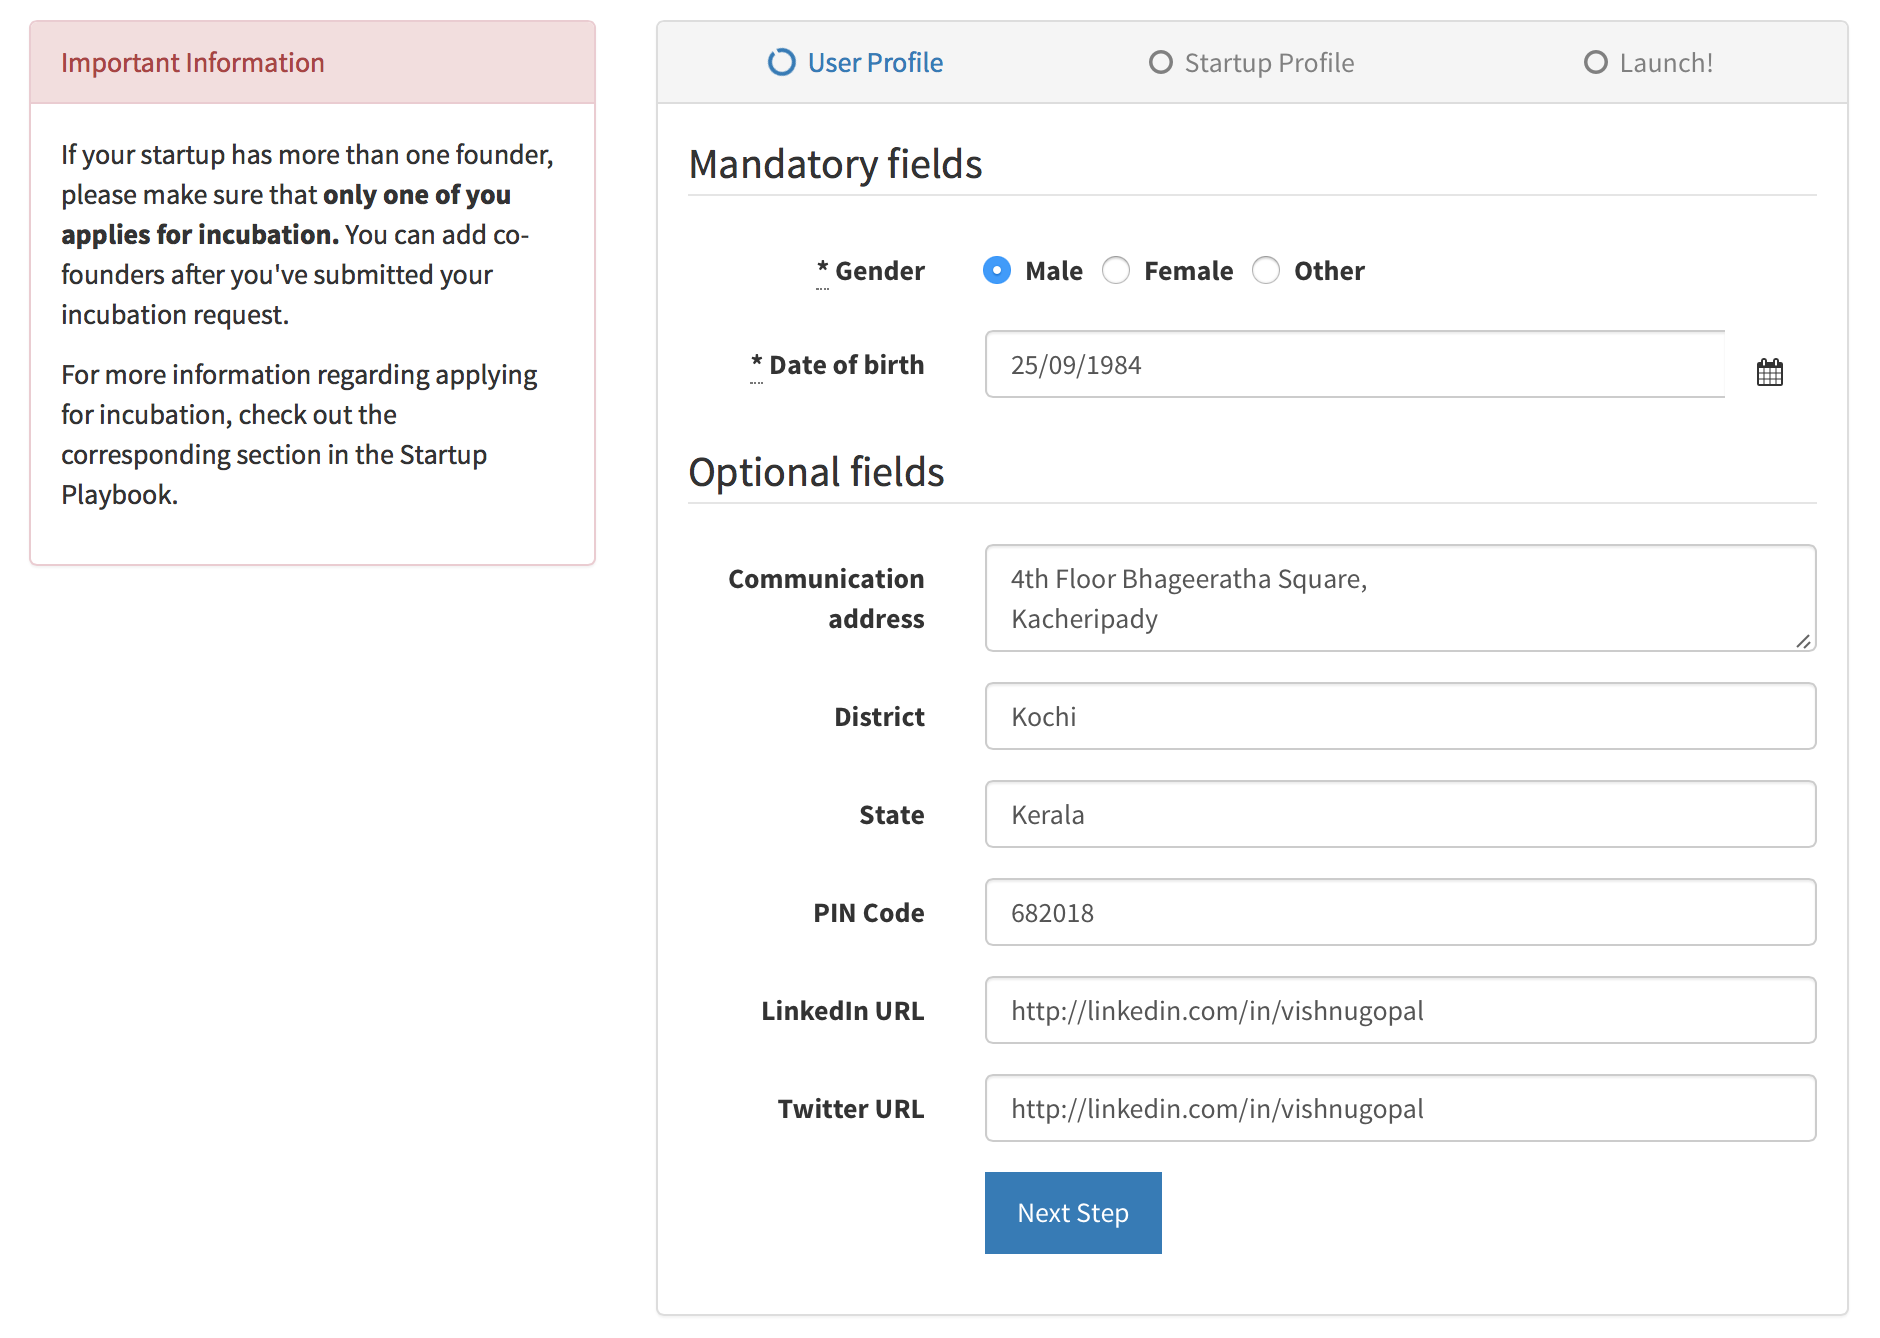
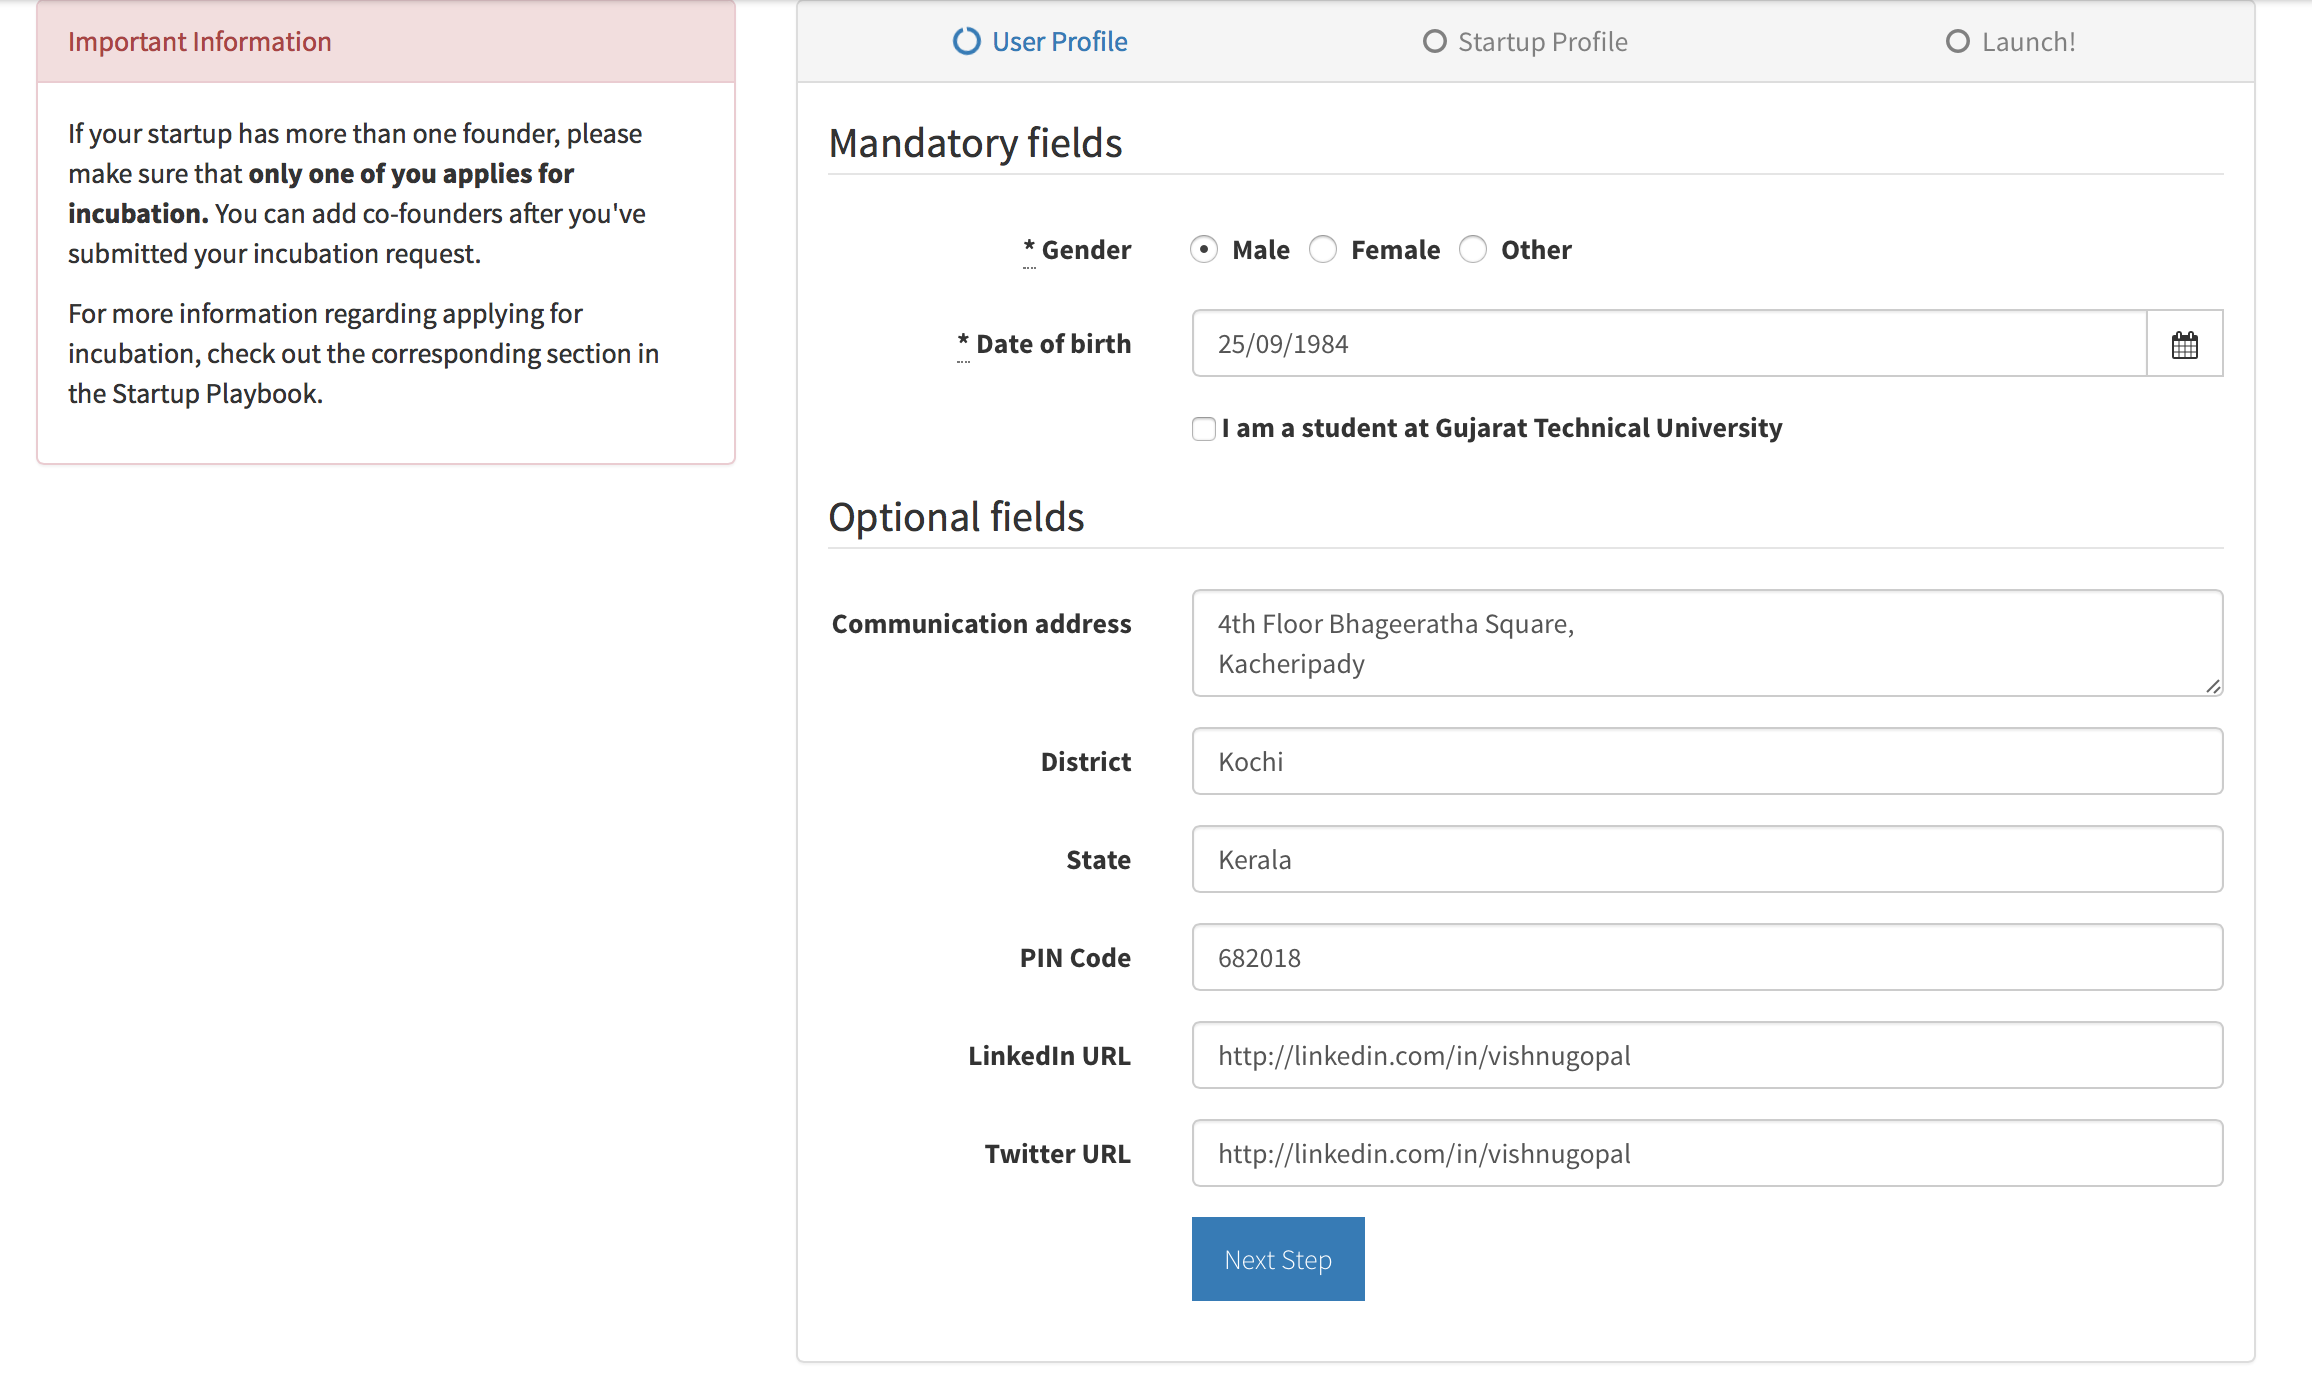
Explicitly mentioning that students of GTU will have to add their roll number.

diff --git a/1.1-application.md b/1.1-application.md
@@ -22,7 +22,10 @@ All founders of a startup need to have separate SV.CO IDs to apply. But when you
 During the process, you submit your idea, add your team members, and submit your initial idea slides[^2]. Once your slides are evaluated and accepted, you are in!
 
 In the first section, you fill in your basic information. It's best to fill in as much of the optional fields as you can.
-![Images of the application process](images/apply1.png)
+![Image of the application process](images/apply1.png)
+
+If you are a student of GTU, **make sure you fill in your University Roll Number**:
+![Image of the GTU Roll Number Addition](images/apply1.1.png)
 
 ---
 Next you create your basic Startup Profile. The most important item here is your deck. To get pointers on how to create a good deck, see the [Idea Discovery](stages/1-idea-discovery.md) page.
@@ -46,4 +49,4 @@ If you are accepted, the next step is to sign a [formal legal agreement with Sta
 ---
 [^1]: This doesn't mean we discriminate against experienced founders. On the contrary, you'll probably get accepted faster and move through stages quicker. If you think we can add value, we'll be happy to help!
 [^2]: Use sites such as [SlideShare](http://www.slideshare.net), [SpeakerDeck](https://speakerdeck.com) or [Google Slides](http://www.google.com/slides/about/) to share your product deck.
-[^3]: This is because we believe a team of at least two, and preferably three founders work best. Read up on [roles](5-startup-roles.md) to learn more about what it takes to build a startup team.
+[^3]: This is because we believe a team of at least three, and preferably four founders work best. Read up on [roles](5-startup-roles.md) to learn more about what it takes to build a startup team.
